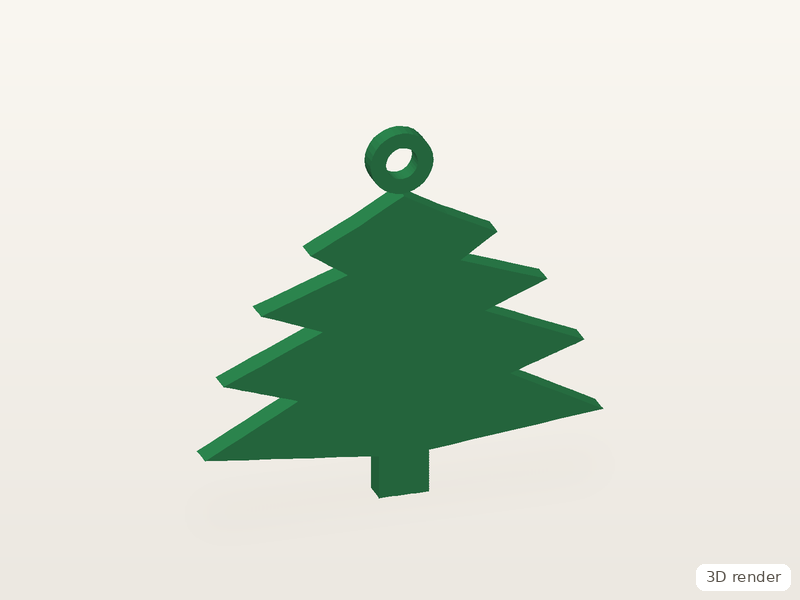
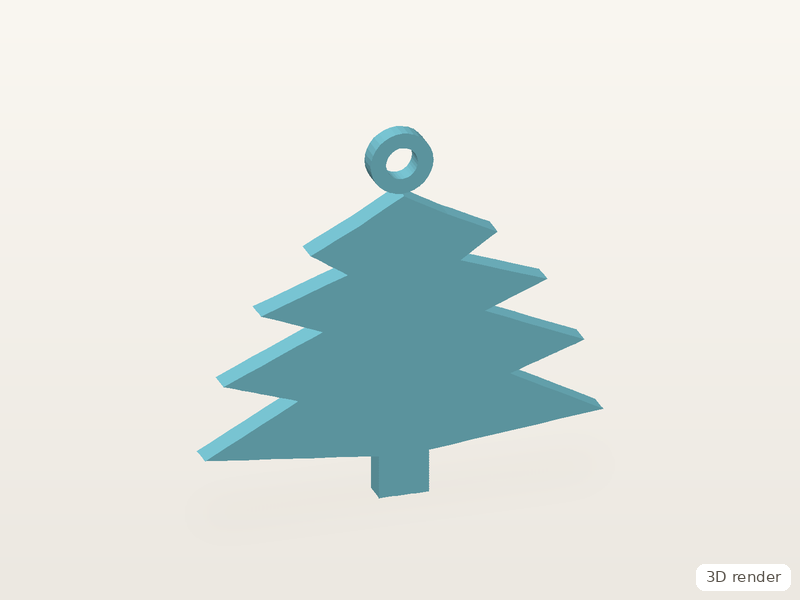
Apply Nizar's inputs: 7 filaments in stock (one colour per print, no AMS), $5 shipping anywhere in Lebanon, no hand-over; renders in real filament colours

Changed region(s): [[0.25, 0.21, 0.75, 0.84]]

diff --git a/assets/js/quote.js b/assets/js/quote.js
@@ -66,7 +66,7 @@
   function options() {
     const unit = +opts.unit.value;
     return {
-      material: opts.material.value, colour: opts.colour.value, infill: +opts.infill.value, quality: opts.quality.value,
+      material: filament().material, filament: filament().id, infill: +opts.infill.value, quality: opts.quality.value,
       qty: Math.max(1, Math.min(500, parseInt(opts.qty.value, 10) || 1)), scale: unit * Math.max(1, Math.min(1000, +opts.scale.value || 100)) / 100,
       unitLabel: opts.unit.options[opts.unit.selectedIndex].text, scalePct: +opts.scale.value || 100,
     };
@@ -91,11 +91,11 @@
       (q.minApplied ? `<li class="min"><span>${T.min}</span><b>${money(P.min_order)}</b></li>` : "");
     $("#qper").textContent = o.qty > 1 ? `${money(q.total / o.qty)} ${T.per}` : "";
     state.current = {
-      file: fileName, material: o.material, colour: o.colour, infill: o.infill, quality: o.quality, qty: o.qty, scale_pct: o.scalePct, unit: o.unitLabel,
+      file: fileName, material: o.material, filament: optText("filament"), infill: o.infill, quality: o.quality, qty: o.qty, scale_pct: o.scalePct, unit: o.unitLabel,
       size_mm: q.size.map(v => Math.round(v * 10) / 10), grams: Math.round(q.grams), hours: Math.round(q.hours * 10) / 10, total_usd: q.total, fits: fit,
     };
     const c = state.current;
-    const msg = `${T.wa}\n${T.file}: ${c.file}\n${T.size}: ${c.size_mm.join(" × ")} mm\n${T.material}: ${c.material}, ${T.colour}: ${optText("colour")}\n${T.infill}: ${c.infill}%, ${T.quality}: ${optText("quality")}\n${T.qty}: ${c.qty}\n${T.est}: ${money(c.total_usd)}`;
+    const msg = `${T.wa}\n${T.file}: ${c.file}\n${T.size}: ${c.size_mm.join(" × ")} mm\n${T.material}: ${c.filament}\n${T.infill}: ${c.infill}%, ${T.quality}: ${optText("quality")}\n${T.qty}: ${c.qty}\n${T.est}: ${money(c.total_usd)}`;
     $("#qwa").href = "https://wa.me/" + window.TLETE_WA + "?text=" + encodeURIComponent(msg);
     // One quote_calculated per distinct quote, after the customer stops fiddling for a moment.
     clearTimeout(update.t);
@@ -107,6 +107,7 @@
     }, fresh ? 300 : 1500);
   }
   const optText = n => opts[n].options[opts[n].selectedIndex].text;
+  const filament = () => P.filaments.find(f => f.id === opts.filament.value) || P.filaments[0];
 
   $("#qsend").addEventListener("click", () => {
     const f = $("#reqform");
@@ -119,7 +120,6 @@
   const view = (function () {
     const cv = $("#qview"), ctx = cv.getContext("2d");
     let tris = null, center = [0, 0, 0], radius = 1, yaw = -0.6, pitch = 0.45, drag = null, raf = 0;
-    const colours = { black: "#2a2a2d", white: "#efece6", grey: "#9a9a9e", red: "#c8302c", blue: "#2f62d0", green: "#2f8a52", yellow: "#e8b622", orange: "#e8662a" };
     function set(t, m) {
       // Keep at most ~40k triangles for display; measurements always use the full mesh.
       const n = t.length / 9, step = Math.max(1, Math.ceil(n / 40000));
@@ -163,7 +163,7 @@
         order.push(i);
       }
       order.sort((a, b) => depth[a] - depth[b]);
-      const hex = colours[opts.colour.value] || "#e8662a";
+      const hex = filament().hex;
       const base = [1, 3, 5].map(k => parseInt(hex.slice(k, k + 2), 16));
       for (const i of order) {
         const s = shade[i];
@@ -176,7 +176,7 @@
     cv.addEventListener("pointermove", e => { if (!drag) return; yaw = drag[2] + (e.clientX - drag[0]) * 0.01; pitch = Math.max(-1.4, Math.min(1.4, drag[3] + (e.clientY - drag[1]) * 0.01)); draw(); });
     cv.addEventListener("pointerup", () => { drag = null; });
     window.addEventListener("resize", draw);
-    opts.colour.addEventListener("change", draw);
+    opts.filament.addEventListener("change", draw);
     return { set, draw };
   })();
 })();

diff --git a/assets/js/site.js b/assets/js/site.js
@@ -43,7 +43,7 @@
     const ref = "T" + Date.now().toString(36).toUpperCase().slice(-6);
     const summary = [
       "Ref " + ref, "Lang " + (AR ? "ar" : "en"),
-      quote ? `Quote: ${quote.file} | ${quote.size_mm.join("x")} mm | ${quote.material} ${quote.colour} | infill ${quote.infill}% | ${quote.quality} | qty ${quote.qty} | ~${quote.grams} g, ~${quote.hours} h | est $${quote.total_usd}${quote.fits ? "" : " | DOES NOT FIT 180mm"}` : "",
+      quote ? `Quote: ${quote.file} | ${quote.size_mm.join("x")} mm | ${quote.filament} | infill ${quote.infill}% | ${quote.quality} | qty ${quote.qty} | ~${quote.grams} g, ~${quote.hours} h | est $${quote.total_usd}${quote.fits ? "" : " | DOES NOT FIT 180mm"}` : "",
       file ? `File: ${file.name} (${Math.round(file.size / 1024)} KB)` : "File: none",
       d.city ? "City: " + d.city : "", d.delivery ? "Delivery: " + d.delivery : "",
       "Notes: " + (d.notes || ""),

diff --git a/build.py b/build.py
@@ -89,12 +89,12 @@ def price(m, material="PLA", infill=None, quality="standard", qty=1):
 
 EXAMPLES = [
     # slug, material, EN name, AR name, EN line, AR line
-    ("cedar-keychain", "PLA", "Cedar keychain", "ميدالية أرزة",
-     "A Lebanese cedar for your keys or bag. Initials on the back on request.", "أرزة لبنانية لمفاتيحك أو شنطتك. منكتب الأحرف الأولى على ضهرها إذا بدّك."),
+    ("cedar-keychain", "PLA", "Glow-in-the-dark cedar keychain", "ميدالية أرزة بتضوي بالعتمة",
+     "A Lebanese cedar for your keys or bag, in PLA that glows in the dark.", "أرزة لبنانية لمفاتيحك أو شنطتك، بـPLA بيضوي بالعتمة."),
     ("phone-stand", "PLA", "Phone stand", "ستاند للتلفون",
      "Holds a phone upright or sideways on a desk, with a gap for the charger cable.", "بيحمل التلفون واقف أو بالعرض عالمكتب، وفيه فتحة لشريط الشحن."),
-    ("appliance-knob", "PETG", "Replacement knob", "مقبض بديل",
-     "Lost the knob on your oven, fan or washing machine? Send a photo with measurements and we model it.", "ضاع مقبض الفرن أو المروحة أو الغسالة؟ ابعتلنا صورة مع القياسات ومنرسمو."),
+    ("appliance-knob", "PLA", "Replacement knob", "مقبض بديل",
+     "Lost the knob on your fan, heater dial or washing machine? Send a photo with measurements and we model it.", "ضاع مقبض المروحة أو الغسالة أو الصوبيا؟ ابعتلنا صورة مع القياسات ومنرسمو."),
     ("lebanon-map", "PLA", "Lebanon map plaque", "لوحة خريطة لبنان",
      "A small map of Lebanon for a shelf, a fridge (magnet on request) or a gift.", "خريطة لبنان صغيرة للرف، للبرّاد (مع مغناطيس إذا بدّك) أو هدية."),
     ("hex-planter", "PETG", "Hex planter", "حوض زرع سداسي",
@@ -102,10 +102,14 @@ EXAMPLES = [
     ("cable-organiser", "PLA", "Cable organiser", "منظّم شرطان",
      "Keeps chargers and cables in their place on the desk.", "بيخلّي الشواحن والشرطان بمحلّن عالمكتب."),
 ]
+FIL = {f["id"]: f for f in P["filaments"]}
+EX_FIL = {"cedar-keychain": "pla-glow-blue", "phone-stand": "pla-purple", "appliance-knob": "pla-black",
+          "lebanon-map": "pla-tough-white", "hex-planter": "petg-translucent-blue", "cable-organiser": "pla-blue"}
 EX = {}
 for slug, mat, *_ in EXAMPLES:
+    assert FIL[EX_FIL[slug]]["material"] == mat, slug
     m = measure(read_stl(ROOT / "assets" / "models" / f"{slug}.stl"))
-    EX[slug] = {"m": m, "q": price(m, mat), "mat": mat}
+    EX[slug] = {"m": m, "q": price(m, mat), "mat": mat, "fil": FIL[EX_FIL[slug]]}
 
 
 # ---------- shared bits ----------
@@ -118,7 +122,7 @@ L = {
         "dir": "ltr", "other": "ar", "other_label": "عربي", "skip": "Skip to content", "menu": "Menu",
         "nav": [("/", "Home"), ("/quote/", "Instant quote"), ("/request/", "Custom request"), ("/delivery/", "Delivery & payment"), ("/faq/", "FAQ")],
         "wa_label": "WhatsApp us", "tagline": "3D printing in Lebanon",
-        "footer_about": "Tlete (تلاتة, \"three\" in Lebanese Arabic) is a small 3D-printing studio in Lebanon with one Bambu Lab A1 Mini printer. We print your files and your ideas in PLA, PETG and TPU, and hand them over or send them anywhere in Lebanon.",
+        "footer_about": "Tlete (تلاتة, \"three\" in Lebanese Arabic) is a small 3D-printing studio in Lebanon with one Bambu Lab A1 Mini printer. We print your files and your ideas in PLA, PETG and TPU, one colour per print, and ship them anywhere in Lebanon for $5.",
         "footer_pages": "Pages", "footer_contact": "Contact", "privacy": "Privacy",
         "render_note": "Example render, not a photo of a customer order",
     },
@@ -126,7 +130,7 @@ L = {
         "dir": "rtl", "other": "en", "other_label": "English", "skip": "انتقل إلى المحتوى", "menu": "القائمة",
         "nav": [("/", "الرئيسية"), ("/quote/", "تسعير فوري"), ("/request/", "طلب خاص"), ("/delivery/", "التوصيل والدفع"), ("/faq/", "أسئلة شائعة")],
         "wa_label": "راسلنا على واتساب", "tagline": "طباعة ثلاثية الأبعاد بلبنان",
-        "footer_about": "تلاتة (Tlete) استوديو صغير للطباعة الثلاثية الأبعاد بلبنان، عندو طابعة وحدة Bambu Lab A1 Mini. منطبع ملفاتك وأفكارك بالـPLA والـPETG والـTPU، ومنسلّمك ياهن باليد أو منبعتن لأي منطقة بلبنان.",
+        "footer_about": "تلاتة (Tlete) استوديو صغير للطباعة الثلاثية الأبعاد بلبنان، عندو طابعة وحدة Bambu Lab A1 Mini. منطبع ملفاتك وأفكارك بالـPLA والـPETG والـTPU، بلون واحد لكل قطعة، ومنبعتن لأي منطقة بلبنان بـ5 دولار.",
         "footer_pages": "الصفحات", "footer_contact": "تواصل", "privacy": "الخصوصية",
         "render_note": "صورة تصميم ثلاثي الأبعاد للتوضيح، مش صورة طلب زبون",
     },
@@ -297,14 +301,14 @@ FAQ = {
          "One piece can be up to 180 × 180 × 180 mm, the build volume of our Bambu Lab A1 Mini. Bigger objects can be printed in parts and glued, which we quote case by case."),
         ("Which materials do you print with?",
          "PLA for decor, gifts, models and most everyday objects; PETG for parts that need to be tougher or handle water, sun and some heat; TPU for flexible things like bumpers and grips. We don't print ABS, ASA, nylon, resin or metal."),
-        ("Can you print in several colours?",
-         "Single-colour prints are the default, in the colours we have in stock. Ask on WhatsApp if you need more than one colour in a single print; we confirm what's possible for your model."),
+        ("Which colours can I choose?",
+         "One colour per print, from the filaments we have: " + ", ".join(f["en"] for f in P["filaments"]) + ". We can't mix colours inside one print, but a model made of separate parts can have each part in a different colour."),
         ("How long does an order take?",
-         "The instant quote shows the print time of your model. We confirm the ready date on WhatsApp before we start, based on the queue that day. Courier delivery inside Lebanon usually takes 1–3 days after that."),
+         "The instant quote shows the print time of your model. We confirm the ready date and delivery on WhatsApp before we start, based on the queue that day."),
         ("How do I pay?",
-         "Cash on delivery or at hand-over, or Whish Money. Prices are in US dollars. For large orders we may ask for part of the price upfront by Whish; we tell you before printing."),
+         "Cash on delivery, or Whish Money. Prices are in US dollars. For large orders we may ask for part of the price upfront by Whish; we tell you before printing."),
         ("Do you deliver outside Beirut?",
-         "Yes, anywhere in Lebanon by courier, cash on delivery. The courier fee (usually about $4–5) is added to your order. You can also pick up or arrange a hand-over."),
+         f"Yes, we ship anywhere in Lebanon for a flat {money(P['shipping_lebanon'])}, billed separately from the print, and you can pay cash on delivery."),
         ("Do you ship abroad?",
          "We can quote courier shipping abroad, but for a single small print the shipping often costs more than the print itself. It makes sense for bigger orders; message us with your country and we quote it."),
         ("Can you copy or fix a broken part?",
@@ -323,14 +327,14 @@ FAQ = {
          "القطعة الوحدة لحد 180 × 180 × 180 ملم، وهيدا حجم الطباعة بطابعتنا Bambu Lab A1 Mini. الأغراض الأكبر منطبعها قطع ومنلزّقها، ومنسعّرها حسب كل حالة."),
         ("شو المواد اللي بتطبعوا فيها؟",
          "PLA للديكور والهدايا والمجسّمات ومعظم الأغراض اليومية؛ PETG للقطع اللي بدها تكون أقوى أو تتحمّل المي والشمس وشوية حرارة؛ TPU للأغراض المرنة متل الحمايات والمساكات. ما منطبع ABS أو ASA أو نايلون أو ريزن أو معدن."),
-        ("فيكن تطبعوا بأكتر من لون؟",
-         "الطباعة بلون واحد هي الأساس، بالألوان اللي عنا بالمخزون. إذا بدك أكتر من لون بنفس القطعة اسألنا على واتساب ومنقلّك شو بيزبط لموديلك."),
+        ("شو الألوان اللي فيني نقّي منها؟",
+         "لون واحد لكل قطعة، من الخيوط اللي عنا: " + "، ".join(f["ar"] for f in P["filaments"]) + ". ما فينا نخلط ألوان بنفس الطباعة، بس الموديل اللي مألّف من كذا قطعة فينا نطبع كل قطعة بلون."),
         ("قدّيش بياخد الطلب وقت؟",
-         "التسعير الفوري بيورجيك وقت طباعة القطعة. منأكّدلك تاريخ التسليم على واتساب قبل ما نبلّش، حسب الطلبات اللي قبلك. التوصيل بالبريد السريع جوّا لبنان بياخد عادةً من يوم لـ3 أيام بعدها."),
+         "التسعير الفوري بيورجيك وقت طباعة القطعة. منأكّدلك تاريخ التسليم والتوصيل على واتساب قبل ما نبلّش، حسب الطلبات اللي قبلك."),
         ("كيف بدفع؟",
-         "كاش عند التسليم أو عبر Whish Money. الأسعار بالدولار الأميركي. للطلبات الكبيرة فينا نطلب جزء من السعر سلف عبر Whish، ومنقلّك قبل الطباعة."),
+         "كاش عند الاستلام أو عبر Whish Money. الأسعار بالدولار الأميركي. للطلبات الكبيرة فينا نطلب جزء من السعر سلف عبر Whish، ومنقلّك قبل الطباعة."),
         ("بتوصّلوا لبرّا بيروت؟",
-         "إيه، لكل لبنان بالبريد السريع، والدفع عند الاستلام. أجرة التوصيل (عادةً حوالي 4–5 دولار) بتنزاد عالطلب. وفيك كمان تستلم بنفسك أو نتّفق على تسليم باليد."),
+         f"إيه، منبعت لكل لبنان بـ{money(P['shipping_lebanon'])} مقطوعة، بتنحسب لحالها غير سعر الطباعة، وفيك تدفع كاش عند الاستلام."),
         ("بتبعتوا لبرّا لبنان؟",
          "فينا نسعّرلك الشحن لبرّا، بس لقطعة صغيرة وحدة الشحن غالبًا بيكلّف أكتر من الطباعة نفسها. بيكون منطقي للطلبات الأكبر؛ ابعتلنا بلدك ومنسعّرلك."),
         ("فيكن تنسخوا أو تصلّحوا قطعة مكسورة؟",
@@ -360,7 +364,8 @@ def example_cards(lang):
         sz = " × ".join(f"{v:.0f}" for v in x["m"]["size_mm"])
         name, d = (ar, ar_d) if lang == "ar" else (en, en_d)
         about = "حوالي" if lang == "ar" else "about"
-        meta = f"{mat} · <bdi dir=\"ltr\">{sz} mm</bdi> · <bdi dir=\"ltr\">{x['q']['grams']:.0f} g</bdi>"
+        fil = x["fil"]["ar"] if lang == "ar" else x["fil"]["en"]
+        meta = f"{e(fil)} · <bdi dir=\"ltr\">{sz} mm</bdi> · <bdi dir=\"ltr\">{x['q']['grams']:.0f} g</bdi>"
         cta = "جرّب سعرو بالتسعير الفوري ←" if lang == "ar" else "Price it in the instant quote →"
         batch = ""
         if x["q"]["total"] <= P["min_order"]:  # small pieces hit the minimum; show what a batch of 10 costs
@@ -375,20 +380,25 @@ def example_cards(lang):
     return '<div class="grid">' + "".join(out) + "</div>"
 
 
+def stock(lang, mat):
+    sep = "، " if lang == "ar" else ", "
+    return e(sep.join(f[lang].replace(mat + " ", "", 1) for f in P["filaments"] if f["material"] == mat))
+
+
 def formula_block(lang):
     m = P["materials"]
     if lang == "ar":
         return f"""<div class="formula">price = grams × rate + print hours × {money(P['per_hour'])} + {money(P['handling'])} (min {money(P['min_order'])})</div>
-<div class="tablewrap" style="margin-top:14px"><table><tr><th>المادة</th><th>للغرام</th><th>بتنفع لـ</th></tr>
-<tr><td>PLA</td><td>{money(m['PLA']['per_gram'])}</td><td>هدايا، ديكور، مجسّمات، أغراض يومية</td></tr>
-<tr><td>PETG</td><td>{money(m['PETG']['per_gram'])}</td><td>قطع أقوى، مي، شمس، حرارة خفيفة</td></tr>
-<tr><td>TPU</td><td>{money(m['TPU']['per_gram'])}</td><td>أغراض مرنة: حمايات، مساكات</td></tr></table></div>
+<div class="tablewrap" style="margin-top:14px"><table><tr><th>المادة</th><th>للغرام</th><th>بتنفع لـ</th><th>الألوان عنا</th></tr>
+<tr><td>PLA</td><td>{money(m['PLA']['per_gram'])}</td><td>هدايا، ديكور، مجسّمات، أغراض يومية</td><td>{stock('ar', 'PLA')}</td></tr>
+<tr><td>PETG</td><td>{money(m['PETG']['per_gram'])}</td><td>قطع أقوى، مي، شمس، حرارة خفيفة</td><td>{stock('ar', 'PETG')}</td></tr>
+<tr><td>TPU</td><td>{money(m['TPU']['per_gram'])}</td><td>أغراض مرنة: حمايات، مساكات</td><td>{stock('ar', 'TPU')}</td></tr></table></div>
 <p class="note">الغرامات = حجم القطعة (الجدران الخارجية + نسبة الحشوة من الداخل) × كثافة المادة، مع {round((P['waste_factor'] - 1) * 100)}% للدعامات والهدر. الأرقام تقديرية، ومنأكّد السعر النهائي على واتساب قبل الطباعة.</p>"""
     return f"""<div class="formula">price = grams × rate + print hours × {money(P['per_hour'])} + {money(P['handling'])} (min {money(P['min_order'])})</div>
-<div class="tablewrap" style="margin-top:14px"><table><tr><th>Material</th><th>Per gram</th><th>Good for</th></tr>
-<tr><td>PLA</td><td>{money(m['PLA']['per_gram'])}</td><td>Gifts, decor, models, everyday objects</td></tr>
-<tr><td>PETG</td><td>{money(m['PETG']['per_gram'])}</td><td>Tougher parts, water, sun, mild heat</td></tr>
-<tr><td>TPU</td><td>{money(m['TPU']['per_gram'])}</td><td>Flexible things: bumpers, grips</td></tr></table></div>
+<div class="tablewrap" style="margin-top:14px"><table><tr><th>Material</th><th>Per gram</th><th>Good for</th><th>In stock</th></tr>
+<tr><td>PLA</td><td>{money(m['PLA']['per_gram'])}</td><td>Gifts, decor, models, everyday objects</td><td>{stock('en', 'PLA')}</td></tr>
+<tr><td>PETG</td><td>{money(m['PETG']['per_gram'])}</td><td>Tougher parts, water, sun, mild heat</td><td>{stock('en', 'PETG')}</td></tr>
+<tr><td>TPU</td><td>{money(m['TPU']['per_gram'])}</td><td>Flexible things: bumpers, grips</td><td>{stock('en', 'TPU')}</td></tr></table></div>
 <p class="note">Grams = the model's volume (outer walls plus your infill share of the inside) × the material's density, plus {round((P['waste_factor'] - 1) * 100)}% for supports and waste. It's an estimate: we confirm the final price on WhatsApp before printing.</p>"""
 
 
@@ -414,7 +424,7 @@ def home(lang):
 <ol class="steps">
 <li><h3>ابعت ملف أو فكرة</h3><p>حمّل ملفك بالتسعير الفوري، أو اوصفلنا شو بدّك بطلب خاص (صورة، رسمة، قياسات).</p></li>
 <li><h3>منأكّد على واتساب</h3><p>منراجع الملف ومنأكّدلك السعر النهائي واللون وتاريخ التسليم. ما منطبع قبل موافقتك.</p></li>
-<li><h3>منطبع ومنسلّم</h3><p>استلام باليد أو توصيل لكل لبنان، والدفع كاش عند الاستلام أو عبر Whish.</p></li>
+<li><h3>منطبع ومنبعت</h3><p>توصيل لكل لبنان بـ{money(P['shipping_lebanon'])}، والدفع كاش عند الاستلام أو عبر Whish.</p></li>
 </ol></div></section>
 
 <section class="alt"><div class="wrap prose">
@@ -429,6 +439,7 @@ def home(lang):
 <li>قطعة وحدة أكبر من 180 ملم بأي اتجاه (منقسمها قطع إذا بيزبط).</li>
 <li>ABS أو ASA أو نايلون أو ريزن أو معدن: طابعتنا مش مسكّرة وهي FDM. التفاصيل الصغيرة كتير (متل مجسّمات 2 سم) بيبيّن فيها خطوط الطبقات.</li>
 <li>قطع بتسخن فوق حوالي 70 درجة أو بتحمل أوزان كبيرة.</li>
+<li>كذا لون بنفس الطباعة: منطبع لون واحد لكل قطعة (الموديل المألّف من قطع فيه يخلط ألوان).</li>
 </ul>
 <h2>أسئلة سريعة</h2>
 {faq_html(lang, FAQ[lang][:4])}
@@ -458,7 +469,7 @@ def home(lang):
 <ol class="steps">
 <li><h3>Send a file or an idea</h3><p>Upload your model to the instant quote, or describe what you need in a custom request (photo, sketch, measurements).</p></li>
 <li><h3>We confirm on WhatsApp</h3><p>We check the file and confirm the final price, colour and ready date. Nothing prints until you say yes.</p></li>
-<li><h3>We print and hand it over</h3><p>Pick up, hand-over, or courier anywhere in Lebanon. Pay cash on delivery or with Whish.</p></li>
+<li><h3>We print and ship it</h3><p>Delivery anywhere in Lebanon for {money(P['shipping_lebanon'])}. Pay cash on delivery or with Whish.</p></li>
 </ol></div></section>
 
 <section class="alt"><div class="wrap prose">
@@ -473,6 +484,7 @@ def home(lang):
 <li>Single pieces bigger than 180 mm in any direction (we can split them into parts when that works).</li>
 <li>ABS, ASA, nylon, resin or metal: our printer is an open FDM machine. Very fine detail (2 cm figurines) shows layer lines.</li>
 <li>Parts that get hotter than about 70 °C or carry heavy loads.</li>
+<li>Several colours inside one print: we print one colour per piece (a model in separate parts can mix colours).</li>
 </ul>
 <h2>Quick answers</h2>
 {faq_html(lang, FAQ[lang][:4])}
@@ -497,9 +509,9 @@ def request_form(lang, with_file):
 <label>{f("WhatsApp number", "رقم الواتساب")}<input name="phone" type="tel" autocomplete="tel" inputmode="tel" required placeholder="+961 …" dir="ltr"></label>
 <label>{f("Email" + (" (we send the quote here too)" if email_req else " (optional)"), "البريد الإلكتروني" + (" (منبعتلك السعر عليه كمان)" if email_req else " (اختياري)"))}<input name="email" type="email" autocomplete="email" {email_req} dir="ltr"></label>
 <label>{f("City or area", "المدينة أو المنطقة")}<input name="city" autocomplete="address-level2" maxlength="80"></label>
-<label>{f("Delivery", "التسليم")}<select name="delivery"><option value="courier">{f("Courier, cash on delivery", "توصيل، دفع عند الاستلام")}</option><option value="pickup">{f("Pick-up / hand-over", "استلام باليد")}</option><option value="abroad">{f("Outside Lebanon (quote shipping)", "برّا لبنان (سعّرولي الشحن)")}</option></select></label>
+<label>{f("Delivery", "التوصيل")}<select name="delivery"><option value="lebanon">{f(f"Anywhere in Lebanon ({money(P['shipping_lebanon'])}, cash on delivery)", f"لأي منطقة بلبنان ({money(P['shipping_lebanon'])}، دفع عند الاستلام)")}</option><option value="abroad">{f("Outside Lebanon (quote shipping)", "برّا لبنان (سعّرولي الشحن)")}</option></select></label>
 {file_field}
-<label>{f("What do you need?" if with_file else "Anything we should know? (colour, deadline, use)", "شو بدّك بالضبط؟" if with_file else "في شي لازم نعرفو؟ (اللون، الموعد، الاستعمال)")}<textarea name="notes" maxlength="1800" {'required' if with_file else ''} placeholder="{f('e.g. a replacement knob for a Beko oven, 35 mm wide, black', 'مثلًا: مقبض بديل لفرن Beko، عرضو 35 ملم، أسود') if with_file else ''}"></textarea></label>
+<label>{f("What do you need?" if with_file else "Anything we should know? (deadline, use)", "شو بدّك بالضبط؟" if with_file else "في شي لازم نعرفو؟ (الموعد، الاستعمال)")}<textarea name="notes" maxlength="1800" {'required' if with_file else ''} placeholder="{f('e.g. a replacement knob for a Beko oven, 35 mm wide, black', 'مثلًا: مقبض بديل لفرن Beko، عرضو 35 ملم، أسود') if with_file else ''}"></textarea></label>
 <label class="hp" aria-hidden="true">Website<input name="website" tabindex="-1" autocomplete="off"></label>
 <button class="btn primary" type="submit">{f("Send request", "ابعت الطلب")}</button>
 <div class="form-status" role="status" aria-live="polite"></div>
@@ -517,13 +529,11 @@ def quote(lang):
     ar = lang == "ar"
     f = lambda en, a: a if ar else en  # noqa: E731
     ex_btns = "".join(f'<button type="button" data-example="{s}">{e(a if ar else n)}</button>' for s, _, n, a, *_ in EXAMPLES)
-    mats = "".join(f'<option value="{k}">{k}</option>' for k in P["materials"])
-    cn = {"black": ("Black", "أسود"), "white": ("White", "أبيض"), "grey": ("Grey", "رمادي"), "red": ("Red", "أحمر"), "blue": ("Blue", "أزرق"), "green": ("Green", "أخضر"), "yellow": ("Yellow", "أصفر"), "orange": ("Orange", "برتقالي")}
-    cols = "".join(f'<option value="{c}">{cn[c][1] if ar else cn[c][0]}</option>' for c in P["colours"])
+    fils = "".join(f'<option value="{x["id"]}">{e(x["ar"] if ar else x["en"])}</option>' for x in P["filaments"])
     infills = "".join(f'<option value="{i}"{" selected" if i == P["infill_default"] else ""}>{i}%{f(" (default)", " (عادي)") if i == P["infill_default"] else ""}</option>' for i in P["infills"])
     body = f"""<div class="wrap pagehead">
 <h1>{f("Instant 3D printing quote", "تسعير فوري للطباعة الثلاثية الأبعاد")}</h1>
-<p class="lead">{f("Drop your model, pick a material and see the estimated price, size and print time. The file stays on your device until you send a request.", "حطّ ملفك، نقّي المادة، وبتشوف السعر التقديري والحجم ووقت الطباعة. الملف بيضل على جهازك لحد ما تبعت الطلب.")}</p>
+<p class="lead">{f("Drop your model, pick a filament and see the estimated price, size and print time. The file stays on your device until you send a request.", "حطّ ملفك، نقّي الخيط، وبتشوف السعر التقديري والحجم ووقت الطباعة. الملف بيضل على جهازك لحد ما تبعت الطلب.")}</p>
 </div>
 <section style="padding-top:8px"><div class="wrap">
 <div class="drop" id="drop">
@@ -546,8 +556,7 @@ def quote(lang):
 <div class="panel">
 <form id="qopts" onsubmit="return false">
 <div class="fields">
-<label>{f("Material", "المادة")}<select name="material">{mats}</select></label>
-<label>{f("Colour", "اللون")}<select name="colour">{cols}</select></label>
+<label style="grid-column:1/-1">{f("Filament (one colour per print)", "الخيط (لون واحد لكل قطعة)")}<select name="filament">{fils}</select></label>
 <label>{f("Infill", "الحشوة")}<select name="infill">{infills}</select></label>
 <label>{f("Quality", "الجودة")}<select name="quality"><option value="draft">{f("Draft (0.28 mm)", "سريع (0.28 ملم)")}</option><option value="standard" selected>{f("Standard (0.20 mm)", "عادي (0.20 ملم)")}</option><option value="fine">{f("Fine (0.12 mm)", "ناعم (0.12 ملم)")}</option></select></label>
 <label>{f("Quantity", "العدد")}<input name="qty" type="number" min="1" max="500" value="1" inputmode="numeric"></label>
@@ -557,6 +566,7 @@ def quote(lang):
 </form>
 <div class="total" id="qtotal"></div><div id="qper"></div>
 <ul id="qbreak"></ul>
+<p class="note" style="margin:0">{f(f"+ {money(P['shipping_lebanon'])} delivery anywhere in Lebanon, billed separately.", f"+ {money(P['shipping_lebanon'])} توصيل لأي منطقة بلبنان، بتنحسب لحالها.")}</p>
 <p class="confirm">{f("Estimate only. We check your file and confirm the final price on WhatsApp before printing.", "سعر تقديري. منشيّك عالملف ومنأكّد السعر النهائي على واتساب قبل الطباعة.")}</p>
 <div class="btns"><a id="qwa" class="btn wa" data-where="quote" href="https://wa.me/{WA}" target="_blank" rel="noopener">{WA_ICON}{f("Order on WhatsApp", "اطلب على واتساب")}</a>
 <button id="qsend" class="btn ghost" type="button">{f("Send with my file", "ابعت مع الملف")}</button></div>
@@ -614,29 +624,29 @@ def delivery(lang):
     ar = lang == "ar"
     f = lambda en, a: a if ar else en  # noqa: E731
     body = f"""<div class="wrap pagehead"><h1>{f("Delivery & payment", "التوصيل والدفع")}</h1>
-<div class="answer"><p>{f("We deliver anywhere in Lebanon by courier (cash on delivery, the fee of about $4–5 is added to your order), or you pick up or meet us for a hand-over. Pay in US dollars, cash or Whish Money. Abroad: shipping quoted per order.", "منوصّل لكل لبنان بالبريد السريع (الدفع عند الاستلام، وأجرة التوصيل حوالي 4–5 دولار بتنزاد عالطلب)، أو بتستلم بنفسك أو منتلاقى ونسلّمك. الدفع بالدولار، كاش أو Whish Money. لبرّا لبنان: منسعّر الشحن حسب الطلب.")}</p></div></div>
+<div class="answer"><p>{f(f"We ship anywhere in Lebanon for a flat {money(P['shipping_lebanon'])}, billed separately from the print. Pay in US dollars, cash on delivery or Whish Money. Abroad: shipping quoted per order.", f"منبعت لكل لبنان بـ{money(P['shipping_lebanon'])} مقطوعة، بتنحسب لحالها غير سعر الطباعة. الدفع بالدولار، كاش عند الاستلام أو Whish Money. لبرّا لبنان: منسعّر الشحن حسب الطلب.")}</p></div></div>
 <section><div class="wrap prose">
 <h2>{f("Inside Lebanon", "جوّا لبنان")}</h2>
 <div class="tablewrap"><table>
 <tr><th>{f("Option", "الطريقة")}</th><th>{f("Cost", "الكلفة")}</th><th>{f("How it works", "كيف بتمشي")}</th></tr>
-<tr><td>{f("Courier", "بريد سريع")}</td><td>{f("about $4–5, added to the order", "حوالي 4–5 دولار، بتنزاد عالطلب")}</td><td>{f("Anywhere in Lebanon, usually 1–3 days after printing. You pay the courier cash.", "لكل لبنان، عادةً يوم لـ3 أيام بعد الطباعة. بتدفع للموزّع كاش.")}</td></tr>
-<tr><td>{f("Pick-up / hand-over", "استلام باليد")}</td><td>{f("free", "مجاني")}</td><td>{f("We agree a time and place on WhatsApp.", "منتّفق عالوقت والمحل على واتساب.")}</td></tr>
+<tr><td>{f("Delivery in Lebanon", "توصيل بلبنان")}</td><td>{money(P['shipping_lebanon'])}</td><td>{f("Anywhere in Lebanon, billed separately from the print. You can pay cash on delivery.", "لأي منطقة بلبنان، بتنحسب لحالها غير الطباعة. فيك تدفع كاش عند الاستلام.")}</td></tr>
+<tr><td>{f("Outside Lebanon", "برّا لبنان")}</td><td>{f("quoted", "حسب الطلب")}</td><td>{f("We quote courier shipping for your country.", "منسعّرلك الشحن لبلدك.")}</td></tr>
 </table></div>
 <h2>{f("Payment", "الدفع")}</h2>
 <ul>
-<li>{f("Cash on delivery or at hand-over (US dollars).", "كاش عند الاستلام أو التسليم (بالدولار).")}</li>
+<li>{f("Cash on delivery (US dollars).", "كاش عند الاستلام (بالدولار).")}</li>
 <li>{f("Whish Money: we send you the details or a payment link on WhatsApp.", "Whish Money: منبعتلك التفاصيل أو رابط دفع على واتساب.")}</li>
 <li>{f("Larger orders: we may ask for part of the price upfront by Whish, and tell you before we print.", "للطلبات الكبيرة: فينا نطلب جزء من السعر سلف عبر Whish، ومنقلّك قبل ما نطبع.")}</li>
 </ul>
 <h2>{f("Outside Lebanon", "برّا لبنان")}</h2>
 <p>{f("We can quote courier shipping (Aramex or DHL). Be aware that a small parcel abroad usually costs $25–45 plus your country's import fees, often more than the print itself, so it makes sense for bigger orders. Tell us your country in a request and we quote it. Digital design files you print yourself are coming later.", "فينا نسعّرلك الشحن (Aramex أو DHL). انتبه إنو طرد صغير لبرّا بيكلّف عادةً 25–45 دولار زائد رسوم الجمرك ببلدك، وغالبًا أكتر من الطباعة نفسها، فبيكون منطقي للطلبات الأكبر. قلّنا بلدك بطلب ومنسعّرلك. ملفات تصاميم رقمية تطبعها بنفسك جايي بعدين.")}</p>
 <h2>{f("Before we print", "قبل الطباعة")}</h2>
-<p>{f("Every order is confirmed on WhatsApp first: final price, colour, delivery and ready date. If a print fails on our side, we reprint it at our cost.", "كل طلب منأكّدو على واتساب بالأول: السعر النهائي، اللون، التوصيل وتاريخ التسليم. إذا فشلت الطباعة من عنّا، منعيدها على حسابنا.")}</p>
+<p>{f("Every order is confirmed on WhatsApp first: final price, colour, delivery and ready date.", "كل طلب منأكّدو على واتساب بالأول: السعر النهائي، اللون، التوصيل وتاريخ التسليم.")}</p>
 <div class="btns"><a class="btn primary" href="{href(lp(lang, '/quote/'))}">{f("Get an instant quote", "احسب السعر")}</a>{wa_btn(lang, where='delivery')}</div>
 </div></section>"""
-    page(lang, "/delivery/", f("Delivery & payment: courier across Lebanon, cash or Whish | Tlete", "التوصيل والدفع: لكل لبنان، كاش أو Whish | تلاتة"),
-         f("How Tlete delivers 3D prints: courier anywhere in Lebanon with cash on delivery, free hand-over, Whish Money, and shipping abroad quoted per order.",
-           "كيف بتوصّل تلاتة الطباعة: لكل لبنان والدفع عند الاستلام، تسليم باليد مجاني، Whish Money، والشحن لبرّا حسب الطلب."),
+    page(lang, "/delivery/", f(f"Delivery & payment: {money(P['shipping_lebanon'])} anywhere in Lebanon, cash or Whish | Tlete", f"التوصيل والدفع: {money(P['shipping_lebanon'])} لكل لبنان، كاش أو Whish | تلاتة"),
+         f(f"How Tlete delivers 3D prints: {money(P['shipping_lebanon'])} flat anywhere in Lebanon, cash on delivery or Whish Money, and shipping abroad quoted per order.",
+           f"كيف بتوصّل تلاتة الطباعة: {money(P['shipping_lebanon'])} لأي منطقة بلبنان، الدفع كاش عند الاستلام أو Whish Money، والشحن لبرّا حسب الطلب."),
          body, ld=[business_ld(lang)], crumbs=f("Delivery & payment", "التوصيل والدفع"))
 
 
@@ -687,7 +697,8 @@ def extras():
 > 3D printing on demand in Lebanon, with an instant online quote. One Bambu Lab A1 Mini printer; PLA, PETG and TPU; max 180 × 180 × 180 mm per piece. English and Arabic.
 
 - Price formula: grams × rate (PLA {money(m['PLA']['per_gram'])}/g, PETG {money(m['PETG']['per_gram'])}/g, TPU {money(m['TPU']['per_gram'])}/g) + print hours × {money(P['per_hour'])} + {money(P['handling'])} handling per order; minimum order {money(P['min_order'])}. Final price confirmed on WhatsApp.
-- Delivery: courier anywhere in Lebanon (cash on delivery, about $4–5), free hand-over or pick-up. Payment: cash or Whish Money. Abroad: shipping quoted per order.
+- Delivery: {money(P['shipping_lebanon'])} flat anywhere in Lebanon (billed separately, cash on delivery). Payment: cash or Whish Money. Abroad: shipping quoted per order.
+- Filaments (one colour per print, no multicolour): {", ".join(f["en"] for f in P["filaments"])}.
 - Orders: WhatsApp +{WA}
 
 ## Pages

diff --git a/tools/make_examples.py b/tools/make_examples.py
@@ -1,7 +1,7 @@
 #!/usr/bin/env python3
 """Generate the example models (binary STL) and their renders (WebP + PNG).
 
-These are honest renders of simple models we designed in code, shown on the
+These are honest renders of simple models we designed in code, in the colours of the filaments Nizar has, shown on the
 site as "example render" until Nizar sends photos of real prints. Output:
 assets/models/<slug>.stl and assets/img/<slug>.webp (+ .png for og:image).
 
@@ -171,12 +171,12 @@ def cable_clip():
 
 
 EXAMPLES = {
-    "cedar-keychain": (cedar, (0.18, 0.55, 0.32)),
-    "phone-stand": (phone_stand, (0.93, 0.36, 0.16)),
-    "hex-planter": (planter, (0.95, 0.93, 0.88)),
-    "lebanon-map": (lebanon_map, (0.85, 0.16, 0.18)),
-    "appliance-knob": (knob, (0.17, 0.17, 0.19)),
-    "cable-organiser": (cable_clip, (0.20, 0.42, 0.85)),
+    "cedar-keychain": (cedar, (0.50, 0.82, 0.88)),  # PLA Glow Blue
+    "phone-stand": (phone_stand, (0.42, 0.25, 0.63)),  # PLA Basic Purple
+    "hex-planter": (planter, (0.37, 0.62, 0.84)),  # PETG Translucent Blue
+    "lebanon-map": (lebanon_map, (0.95, 0.93, 0.90)),  # PLA Tough White
+    "appliance-knob": (knob, (0.20, 0.20, 0.22)),  # PLA Basic Black
+    "cable-organiser": (cable_clip, (0.12, 0.37, 0.75)),  # PLA Basic Blue
 }
 SHOW_STANDING = {"cedar-keychain", "lebanon-map"}  # printed flat, photographed upright
 
